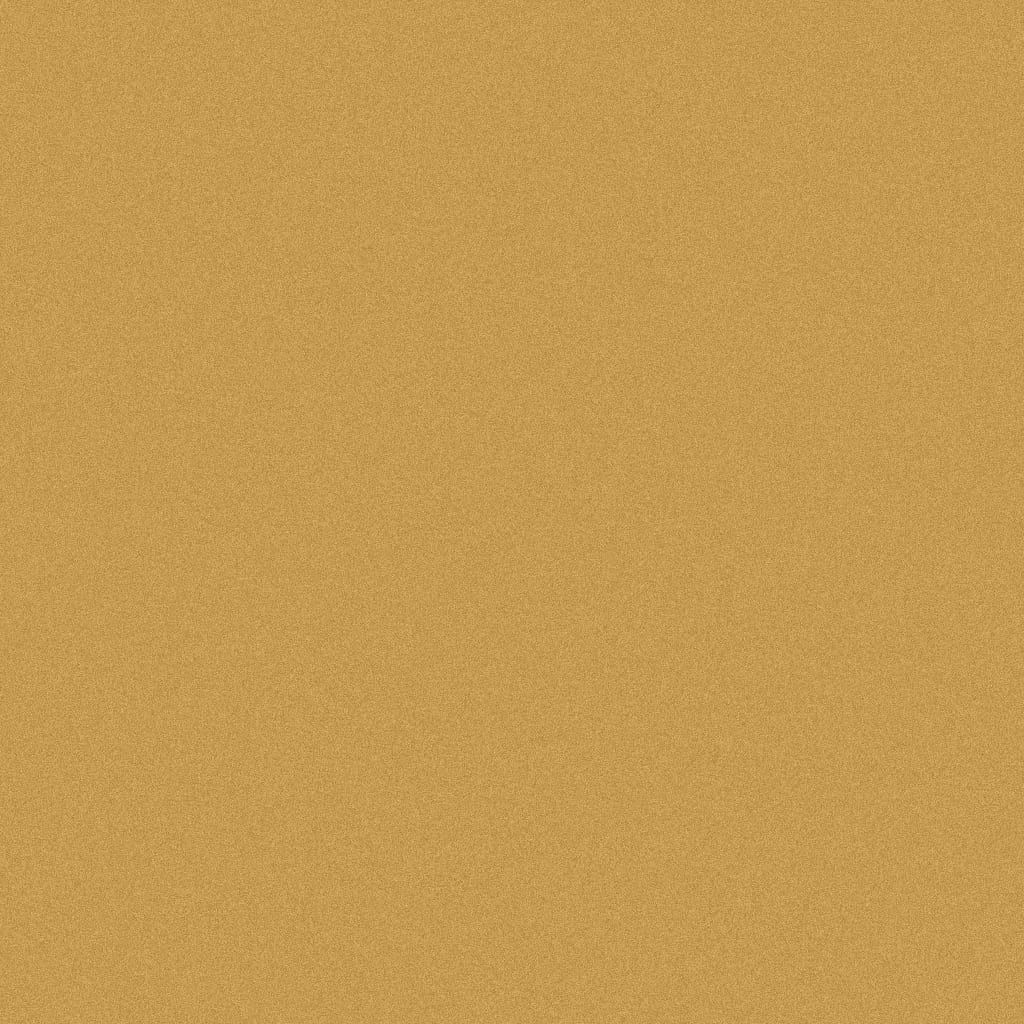
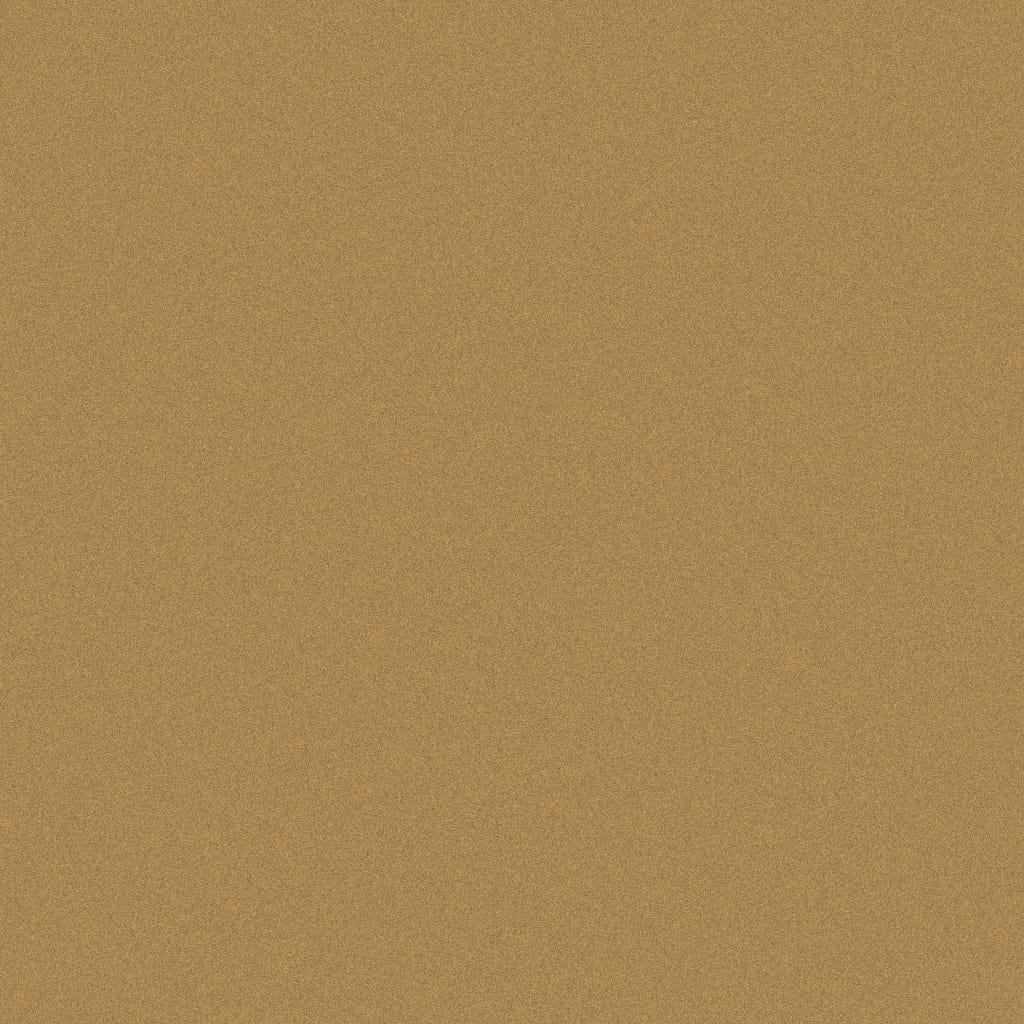
Print bed: a darker, less saturated PEI, closer to Bambu's textured plate

diff --git a/src/framework/materials/assets/SOURCES.md b/src/framework/materials/assets/SOURCES.md
@@ -68,7 +68,7 @@ the sliced primary and gain-map buffers now start with SOI (`FF D8`) and end wit
 | `pattern-walnut-rough.jpg` | Poly Haven "Dark Wood" (roughness; API key `Rough`) | https://polyhaven.com/a/dark_wood — file https://dl.polyhaven.org/file/ph-assets/Textures/jpg/1k/dark_wood/dark_wood_rough_1k.jpg | 2026-09-24 | 1K JPG, grayscale data -> `node scripts/bake-environments.mjs --texture dark_wood_rough_1k.jpg pattern-walnut-rough.jpg --gray` (source is neutral grey; channel means unchanged). |
 | `ground-maple-color.jpg` | Poly Haven "Oak Veneer 01" (colour; API key `Diffuse`) | https://polyhaven.com/a/oak_veneer_01 — file https://dl.polyhaven.org/file/ph-assets/Textures/jpg/1k/oak_veneer_01/oak_veneer_01_diff_1k.jpg | 2026-09-24 | Workshop floor, "unfinished maple": `node scripts/bake-environments.mjs --texture oak_veneer_01_diff_1k.jpg ground-maple-color.jpg --modulate 1.5,0.7 --quality 85` (lightened 1.5x, saturation 0.7). |
 | `ground-maple-normal.jpg` | Poly Haven "Oak Veneer 01" (OpenGL normal map; API key `nor_gl`) | https://polyhaven.com/a/oak_veneer_01 — file https://dl.polyhaven.org/file/ph-assets/Textures/jpg/1k/oak_veneer_01/oak_veneer_01_nor_gl_1k.jpg | 2026-09-24 | Workshop floor relief: `node scripts/bake-environments.mjs --texture oak_veneer_01_nor_gl_1k.jpg ground-maple-normal.jpg --data --quality 92`. A separate file from `pattern-oak-normal.jpg` so the floor and the oak material never share (and dispose) one texture. |
-| `ground-pei.jpg` | None — procedural | n/a | n/a | Gold-brown fine-grain speckle, no external source. First attempt tinted ambientCG "Plastic 010"'s colour map (near-uniform, stdev < 1/channel — visibly flat, no grain, when actually viewed) gold-brown; that colour map carries no usable grain at all (its roughness map does, which is why `ground-pei-rough.jpg` below is still Plastic010's roughness). Checked ambientCG alternatives (Metal049A — also flat; Granite006A — real speckle but reads as rock, not powder-coat) and found nothing closer. Generated in-baker instead, same procedural precedent as `pattern-carbon.jpg`: per-pixel triangular-distributed noise around a `196,154,82` gold-brown base (asymmetric per channel so flecks warm rather than grey), then a 0.5px blur to turn single-pixel noise into soft grains -> `node scripts/bake-environments.mjs --speckle ground-pei.jpg --tint 196,154,82`. |
+| `ground-pei.jpg` | None — procedural | n/a | n/a | Gold-brown fine-grain speckle, no external source. First attempt tinted ambientCG "Plastic 010"'s colour map (near-uniform, stdev < 1/channel — visibly flat, no grain, when actually viewed) gold-brown; that colour map carries no usable grain at all (its roughness map does, which is why `ground-pei-rough.jpg` below is still Plastic010's roughness). Checked ambientCG alternatives (Metal049A — also flat; Granite006A — real speckle but reads as rock, not powder-coat) and found nothing closer. Generated in-baker instead, same procedural precedent as `pattern-carbon.jpg`: per-pixel triangular-distributed noise around a `168,134,82` bronze-gold base (asymmetric per channel so flecks warm rather than grey), then a 0.5px blur to turn single-pixel noise into soft grains -> `node scripts/bake-environments.mjs --speckle ground-pei.jpg --tint 168,134,82`. (Re-baked 2026-09-24 from `196,154,82`: darker and less saturated, closer to a Bambu textured-PEI plate's muted bronze-gold.) |
 | `ground-pei-rough.jpg` | ambientCG "Plastic 010" (Roughness) | https://ambientcg.com/a/Plastic010 | 2026-09-24 | 1K JPG, grayscale -> `node scripts/bake-environments.mjs --texture Plastic010_1K-JPG_Roughness.jpg ground-pei-rough.jpg --gray` |
 | `ground-concrete.jpg` | ambientCG "Concrete 047 A" (Color) | https://ambientcg.com/a/Concrete047A | 2026-09-24 | 2K JPG -> `node scripts/bake-environments.mjs --texture Concrete047A_2K-JPG_Color.jpg ground-concrete.jpg --size 1024 --modulate 1.35,0 --flatten 0.7 --quality 82` (grey, brightened to the old map's mean so the concrete material preset keeps its tone; `--flatten 0.7` is 30% less grain contrast). Replaced ambientCG "Concrete 034", whose colour map was nearly flat (stdev ~5/255) and read as blur up close; 047 A's exposed aggregate keeps fine grain. |
 | `ground-concrete-rough.jpg` | ambientCG "Concrete 047 A" (Roughness) | https://ambientcg.com/a/Concrete047A | 2026-09-24 | 2K JPG, grayscale -> `node scripts/bake-environments.mjs --texture Concrete047A_2K-JPG_Roughness.jpg ground-concrete-rough.jpg --gray --size 1024` |
